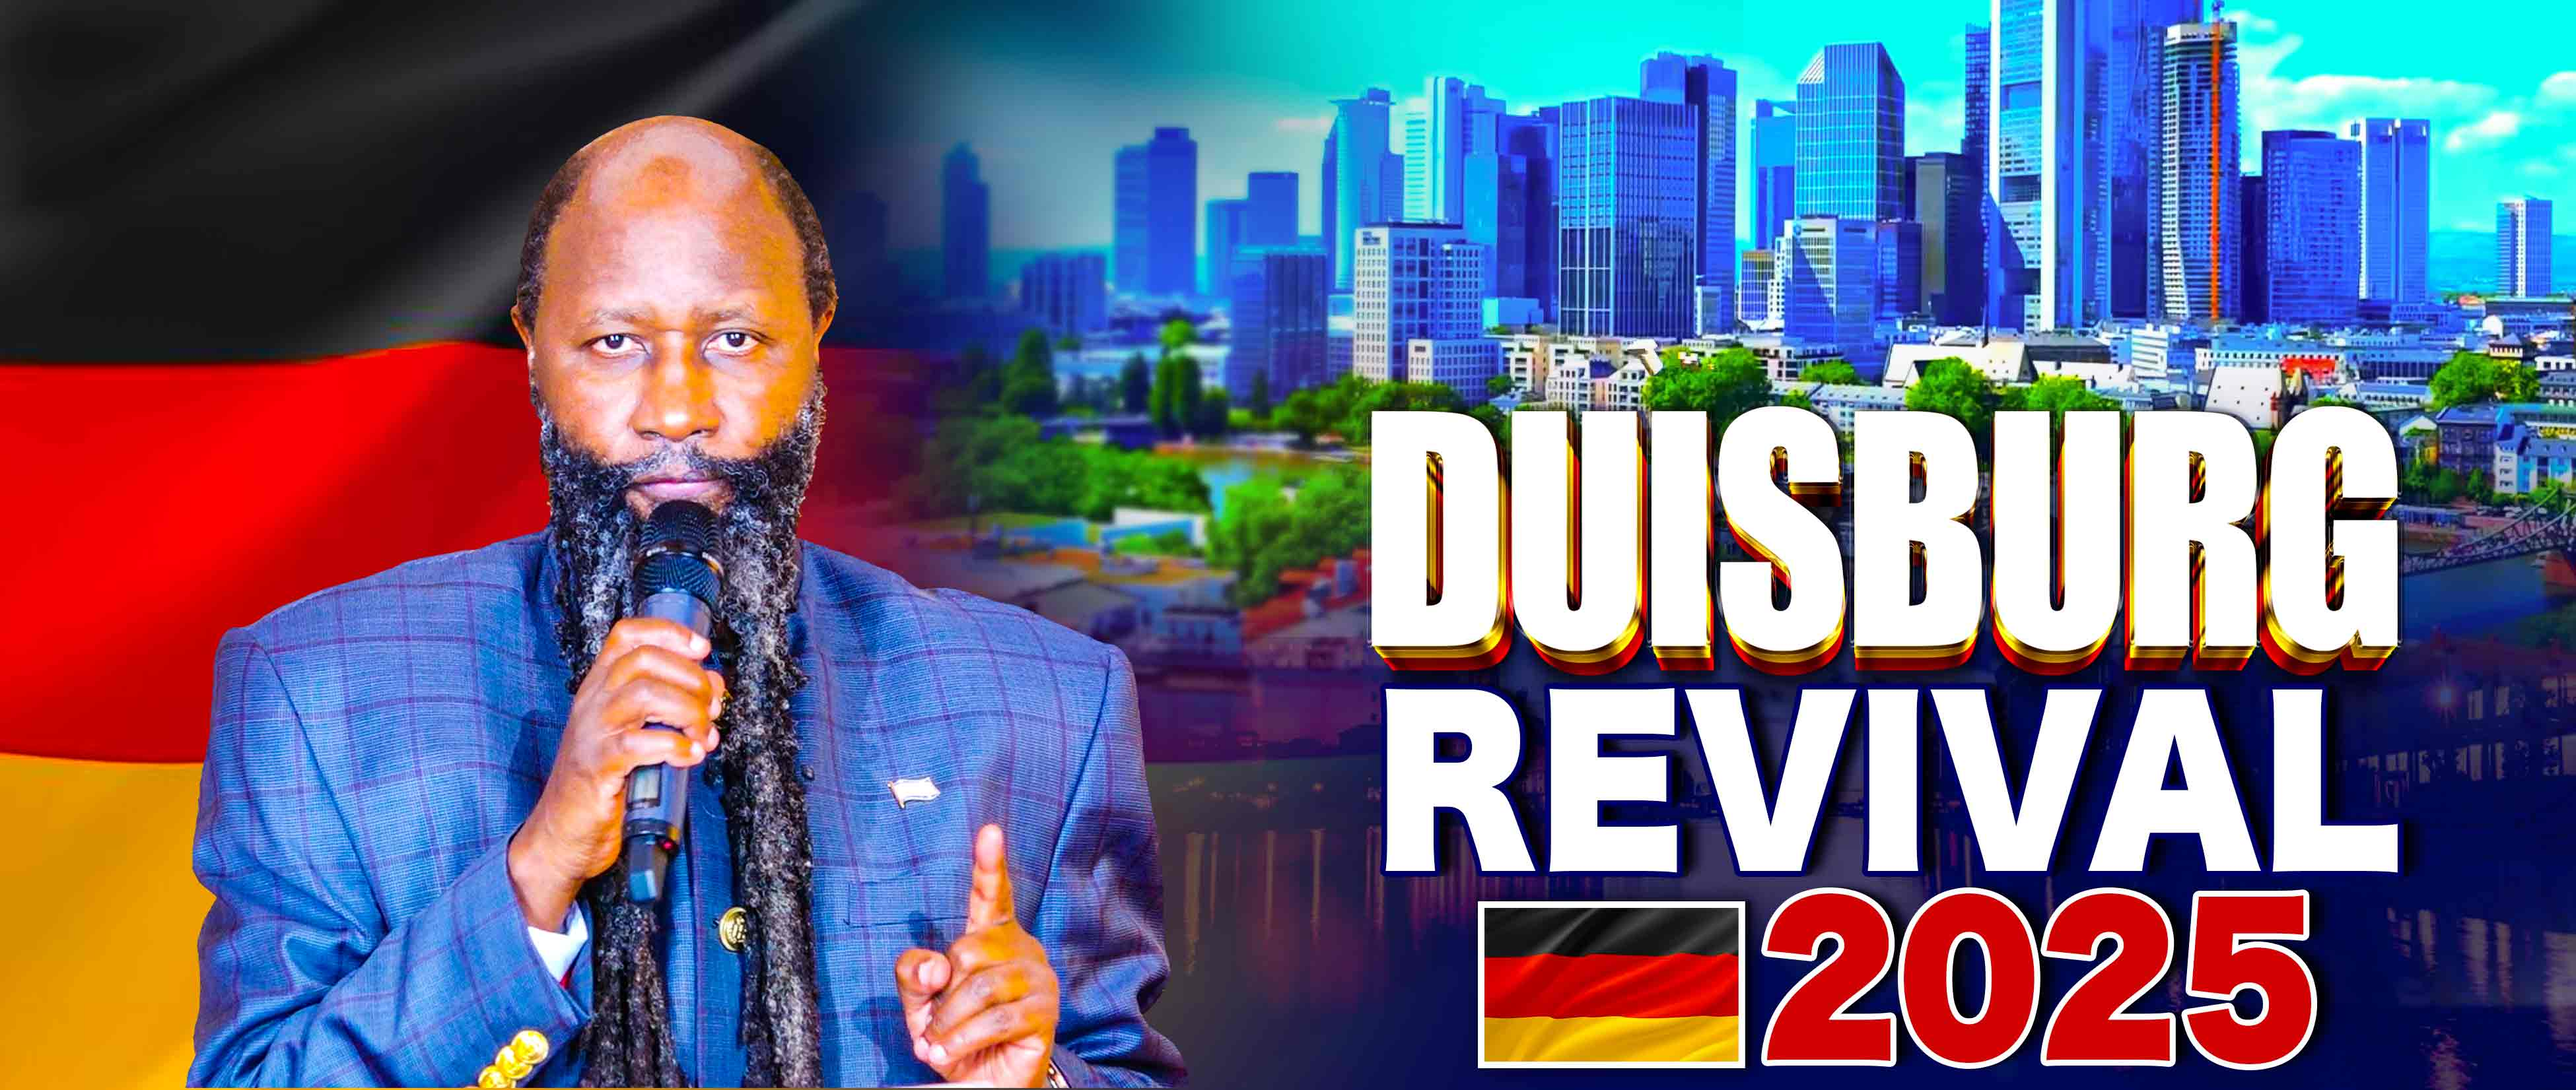
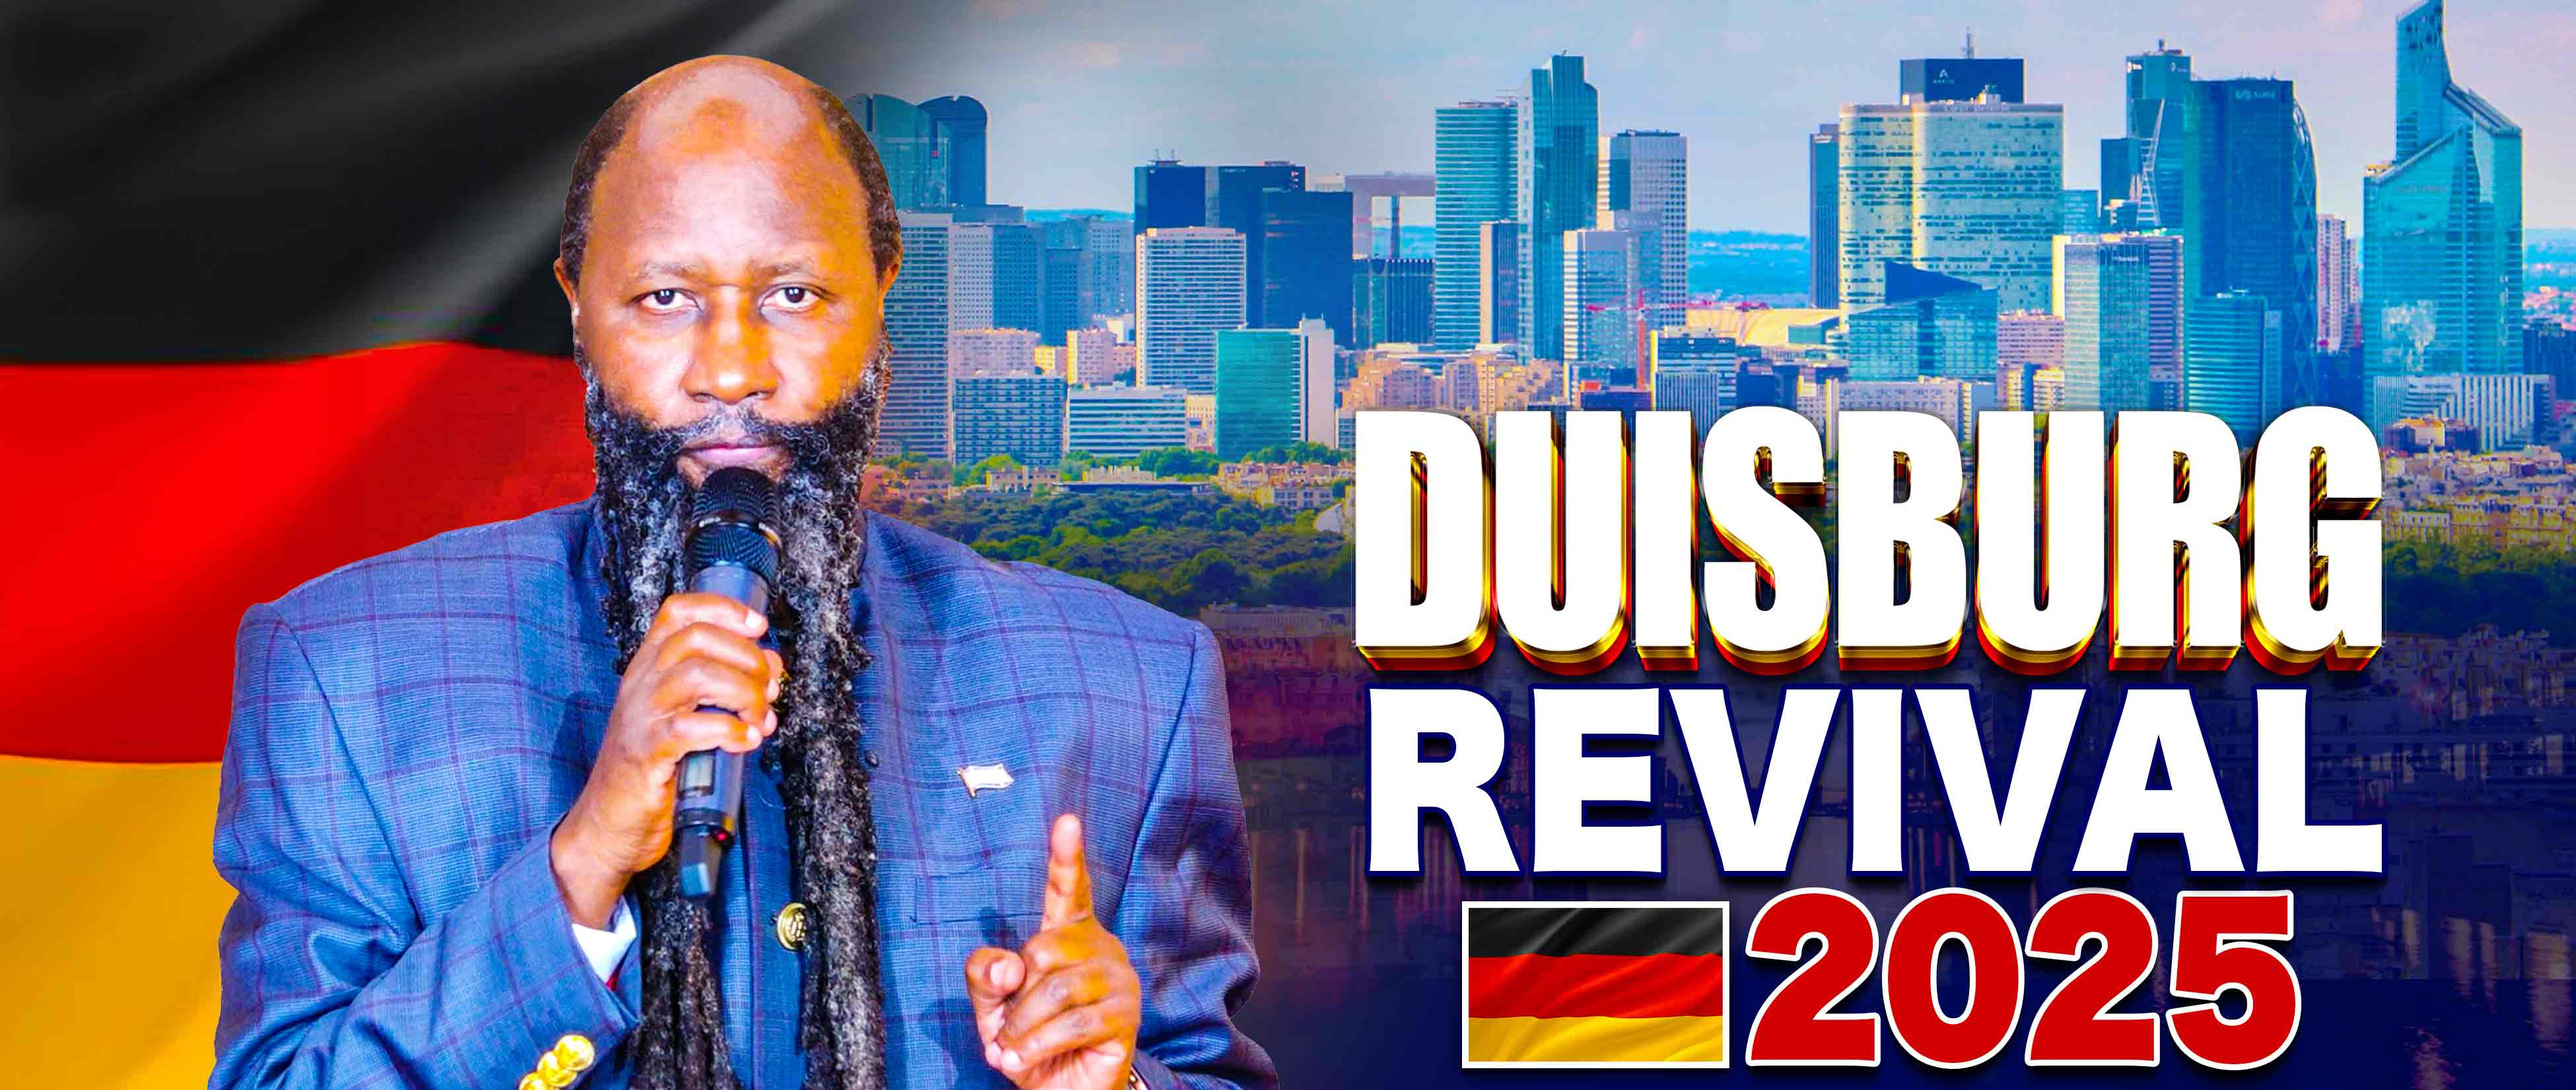
first commit

diff --git a/index.html b/index.html
@@ -9,80 +9,9 @@
 <body>
     <div class="slideshow-container">
 
-<img class="slideshow" src= "https://pub-9f92551086574e82abebdc7b9c83cf92.r2.dev/Duisburg%20Healing%20Service/Skyline-1.jpg" alt="Unstable internet, please refresh the browser">  
-<img class="slideshow" src= "https://pub-9f92551086574e82abebdc7b9c83cf92.r2.dev/Duisburg%20Healing%20Service/Crowd-1.jpg" alt="Unstable internet, please refresh the browser">      
-<img class="slideshow" src= "https://pub-9f92551086574e82abebdc7b9c83cf92.r2.dev/Duisburg%20Healing%20Service/Crowd-3.jpg" alt="Unstable internet, please refresh the browser">
-<img class="slideshow" src= "https://pub-9f92551086574e82abebdc7b9c83cf92.r2.dev/Duisburg%20Healing%20Service/Crowd-2.jpg" alt="Unstable internet, please refresh the browser">
-<img class="slideshow" src= "https://pub-9f92551086574e82abebdc7b9c83cf92.r2.dev/Duisburg%20Healing%20Service/Crowd-4.jpg" alt="Unstable internet, please refresh the browser">
-<img class="slideshow" src= "https://pub-9f92551086574e82abebdc7b9c83cf92.r2.dev/Duisburg%20Healing%20Service/Blind-1.jpg" alt="Unstable internet, please refresh the browser">
-<img class="slideshow" src= "https://pub-9f92551086574e82abebdc7b9c83cf92.r2.dev/Duisburg%20Healing%20Service/Blind-2.jpg" alt="Unstable internet, please refresh the browser">
-<img class="slideshow" src= "https://pub-9f92551086574e82abebdc7b9c83cf92.r2.dev/Duisburg%20Healing%20Service/Blind-3.jpg" alt="Unstable internet, please refresh the browser">
-<img class="slideshow" src= "https://pub-9f92551086574e82abebdc7b9c83cf92.r2.dev/Duisburg%20Healing%20Service/Blind-4.jpg" alt="Unstable internet, please refresh the browser">
+        <!--Arrival-->
+<img class="slideshow" src= "https://pub-9f92551086574e82abebdc7b9c83cf92.r2.dev/France%20-%20bordeaux/1.%20Arrival/Skyline.jpg" alt="Unstable internet, please refresh the browser">  
 
-<img class="slideshow" src= "https://pub-9f92551086574e82abebdc7b9c83cf92.r2.dev/Duisburg%20Healing%20Service/Deaf--1.jpg" alt="Unstable internet, please refresh the browser">
-<img class="slideshow" src= "https://pub-9f92551086574e82abebdc7b9c83cf92.r2.dev/Duisburg%20Healing%20Service/Deaf-2.jpg" alt="Unstable internet, please refresh the browser">
-<img class="slideshow" src= "https://pub-9f92551086574e82abebdc7b9c83cf92.r2.dev/Duisburg%20Healing%20Service/Mute-1.jpg" alt="Unstable internet, please refresh the browser">
-<img class="slideshow" src= "https://pub-9f92551086574e82abebdc7b9c83cf92.r2.dev/Duisburg%20Healing%20Service/Mute-2.jpg" alt="Unstable internet, please refresh the browser">
-<img class="slideshow" src= "https://pub-9f92551086574e82abebdc7b9c83cf92.r2.dev/Duisburg%20Healing%20Service/Mute-3.jpg" alt="Unstable internet, please refresh the browser">
-
-<img class="slideshow" src= "https://pub-9f92551086574e82abebdc7b9c83cf92.r2.dev/Duisburg%20Healing%20Service/Spinal-cord-iinjury.jpg" alt="Unstable internet, please refresh the browser">
-<img class="slideshow" src= "https://pub-9f92551086574e82abebdc7b9c83cf92.r2.dev/Duisburg%20Healing%20Service/Raptured-disc-1.jpg" alt="Unstable internet, please refresh the browser">
-<img class="slideshow" src= "https://pub-9f92551086574e82abebdc7b9c83cf92.r2.dev/Duisburg%20Healing%20Service/Raptured-disc-2.jpg" alt="Unstable internet, please refresh the browser">
-<img class="slideshow" src= "https://pub-9f92551086574e82abebdc7b9c83cf92.r2.dev/Duisburg%20Healing%20Service/Raptured-disc-3.jpg" alt="Unstable internet, please refresh the browser">
-<img class="slideshow" src= "https://pub-9f92551086574e82abebdc7b9c83cf92.r2.dev/Duisburg%20Healing%20Service/Broken-back-1.jpg" alt="Unstable internet, please refresh the browser">
-<img class="slideshow" src= "https://pub-9f92551086574e82abebdc7b9c83cf92.r2.dev/Duisburg%20Healing%20Service/Broken-back-2.jpg" alt="Unstable internet, please refresh the browser">
-
-<img class="slideshow" src= "https://pub-9f92551086574e82abebdc7b9c83cf92.r2.dev/Duisburg%20Healing%20Service/Broken-leg-1.jpg" alt="Unstable internet, please refresh the browser">
-<img class="slideshow" src= "https://pub-9f92551086574e82abebdc7b9c83cf92.r2.dev/Duisburg%20Healing%20Service/Broken-leg-2.jpg" alt="Unstable internet, please refresh the browser">
-<img class="slideshow" src= "https://pub-9f92551086574e82abebdc7b9c83cf92.r2.dev/Duisburg%20Healing%20Service/Broken-leg-3.jpg" alt="Unstable internet, please refresh the browser">
-<img class="slideshow" src= "https://pub-9f92551086574e82abebdc7b9c83cf92.r2.dev/Duisburg%20Healing%20Service/Broken-leg-4.jpg" alt="Unstable internet, please refresh the browser">
-
-
-<img class="slideshow" src= "https://pub-9f92551086574e82abebdc7b9c83cf92.r2.dev/Duisburg%20Healing%20Service/Back-1.jpg" alt="Unstable internet, please refresh the browser">
-<img class="slideshow" src= "https://pub-9f92551086574e82abebdc7b9c83cf92.r2.dev/Duisburg%20Healing%20Service/Back-2.jpg" alt="Unstable internet, please refresh the browser">
-<img class="slideshow" src= "https://pub-9f92551086574e82abebdc7b9c83cf92.r2.dev/Duisburg%20Healing%20Service/Back-3.jpg" alt="Unstable internet, please refresh the browser">
-
-<img class="slideshow" src= "https://pub-9f92551086574e82abebdc7b9c83cf92.r2.dev/Duisburg%20Healing%20Service/Stiff-hand-1.jpg" alt="Unstable internet, please refresh the browser">
-<img class="slideshow" src= "https://pub-9f92551086574e82abebdc7b9c83cf92.r2.dev/Duisburg%20Healing%20Service/Stiff-hand-2.jpg" alt="Unstable internet, please refresh the browser">
-<img class="slideshow" src= "https://pub-9f92551086574e82abebdc7b9c83cf92.r2.dev/Duisburg%20Healing%20Service/Stiff-hand-3.jpg" alt="Unstable internet, please refresh the browser">
-
-<img class="slideshow" src= "https://pub-9f92551086574e82abebdc7b9c83cf92.r2.dev/Duisburg%20Healing%20Service/Weak-hands-1.jpg" alt="Unstable internet, please refresh the browser">
-<img class="slideshow" src= "https://pub-9f92551086574e82abebdc7b9c83cf92.r2.dev/Duisburg%20Healing%20Service/Weak-hands-2.jpg" alt="Unstable internet, please refresh the browser">
-<img class="slideshow" src= "https://pub-9f92551086574e82abebdc7b9c83cf92.r2.dev/Duisburg%20Healing%20Service/Weak-hands-3.jpg" alt="Unstable internet, please refresh the browser">
-
-
-
-<img class="slideshow" src= "https://pub-9f92551086574e82abebdc7b9c83cf92.r2.dev/Germany%202025/Stuttgart%20healing%20Service/Brenda-Chepkoech.jpg" alt="Unstable internet, please refresh the browser">
-<img class="slideshow" src= "https://pub-9f92551086574e82abebdc7b9c83cf92.r2.dev/Duisburg%20Arrival/Skyline-1.jpg" alt="Unstable internet, please refresh the browser">
-<img class="slideshow" src= "https://pub-9f92551086574e82abebdc7b9c83cf92.r2.dev/Duisburg%20Conference/1.jpg" alt="Unstable internet, please refresh the browser">
-<img class="slideshow" src= "https://pub-9f92551086574e82abebdc7b9c83cf92.r2.dev/Duisburg%20Conference/2.jpg" alt="Unstable internet, please refresh the browser">
-<img class="slideshow" src= "https://pub-9f92551086574e82abebdc7b9c83cf92.r2.dev/Duisburg%20Conference/3.jpg" alt="Unstable internet, please refresh the browser">
-<img class="slideshow" src= "https://pub-9f92551086574e82abebdc7b9c83cf92.r2.dev/Duisburg%20Conference/4.jpg" alt="Unstable internet, please refresh the browser">
-<img class="slideshow" src= "https://pub-9f92551086574e82abebdc7b9c83cf92.r2.dev/Duisburg%20Conference/5.jpg" alt="Unstable internet, please refresh the browser">
-<img class="slideshow" src= "https://pub-9f92551086574e82abebdc7b9c83cf92.r2.dev/Duisburg%20Conference/6.jpg" alt="Unstable internet, please refresh the browser">
-<img class="slideshow" src= "https://pub-9f92551086574e82abebdc7b9c83cf92.r2.dev/Duisburg%20Conference/7.jpg" alt="Unstable internet, please refresh the browser">
-<img class="slideshow" src= "https://pub-9f92551086574e82abebdc7b9c83cf92.r2.dev/Duisburg%20Conference/8.jpg" alt="Unstable internet, please refresh the browser">
-<img class="slideshow" src= "https://pub-9f92551086574e82abebdc7b9c83cf92.r2.dev/Duisburg%20Conference/9.jpg" alt="Unstable internet, please refresh the browser">
-<img class="slideshow" src= "https://pub-9f92551086574e82abebdc7b9c83cf92.r2.dev/Duisburg%20Conference/10.jpg" alt="Unstable internet, please refresh the browser">
-<img class="slideshow" src= "https://pub-9f92551086574e82abebdc7b9c83cf92.r2.dev/Duisburg%20Conference/11.jpg" alt="Unstable internet, please refresh the browser">
-
-        <!-- Duisburg Arrival  -->
-
-<img class="slideshow" src= "https://pub-9f92551086574e82abebdc7b9c83cf92.r2.dev/Duisburg%20Arrival/Skyline-1.jpg" alt="Unstable internet, please refresh the browser">
-<img class="slideshow" src= "https://pub-9f92551086574e82abebdc7b9c83cf92.r2.dev/Duisburg%20Arrival/Arrival-1.jpg" alt="Unstable internet, please refresh the browser">
-<img class="slideshow" src= "https://pub-9f92551086574e82abebdc7b9c83cf92.r2.dev/Duisburg%20Arrival/Arrival-2.jpg" alt="Unstable internet, please refresh the browser">
-<img class="slideshow" src= "https://pub-9f92551086574e82abebdc7b9c83cf92.r2.dev/Duisburg%20Arrival/Arrival-3.jpg" alt="Unstable internet, please refresh the browser">
-<img class="slideshow" src= "https://pub-9f92551086574e82abebdc7b9c83cf92.r2.dev/Duisburg%20Arrival/Arrival-4.jpg" alt="Unstable internet, please refresh the browser">
-<img class="slideshow" src= "https://pub-9f92551086574e82abebdc7b9c83cf92.r2.dev/Duisburg%20Arrival/Arrival-5.jpg" alt="Unstable internet, please refresh the browser">
-<img class="slideshow" src= "https://pub-9f92551086574e82abebdc7b9c83cf92.r2.dev/Duisburg%20Arrival/Arrival-6.jpg" alt="Unstable internet, please refresh the browser">
-<img class="slideshow" src= "https://pub-9f92551086574e82abebdc7b9c83cf92.r2.dev/Duisburg%20Arrival/Arrival-7.jpg" alt="Unstable internet, please refresh the browser">
-<img class="slideshow" src= "https://pub-9f92551086574e82abebdc7b9c83cf92.r2.dev/Duisburg%20Arrival/Arrival-8.jpg" alt="Unstable internet, please refresh the browser">
-<img class="slideshow" src= "https://pub-9f92551086574e82abebdc7b9c83cf92.r2.dev/Duisburg%20Arrival/Arrival-9.jpg" alt="Unstable internet, please refresh the browser">
-<img class="slideshow" src= "https://pub-9f92551086574e82abebdc7b9c83cf92.r2.dev/Duisburg%20Arrival/Arrival-10.jpg" alt="Unstable internet, please refresh the browser">
-<img class="slideshow" src= "https://pub-9f92551086574e82abebdc7b9c83cf92.r2.dev/Duisburg%20Arrival/Arrival-11.jpg" alt="Unstable internet, please refresh the browser">
-<img class="slideshow" src= "https://pub-9f92551086574e82abebdc7b9c83cf92.r2.dev/Duisburg%20Arrival/Walk-1.jpg" alt="Unstable internet, please refresh the browser">
-<img class="slideshow" src= "https://pub-9f92551086574e82abebdc7b9c83cf92.r2.dev/Duisburg%20Arrival/Walk-2.jpg" alt="Unstable internet, please refresh the browser">
-<img class="slideshow" src= "https://pub-9f92551086574e82abebdc7b9c83cf92.r2.dev/Duisburg%20Arrival/Walk-3.jpg" alt="Unstable internet, please refresh the browser">
 
 
         <!-- Add more images here -->
